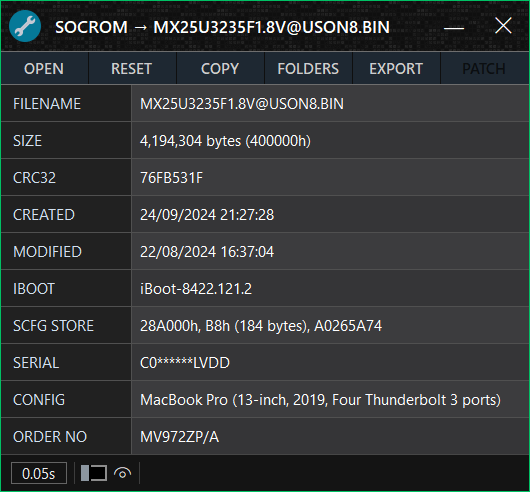
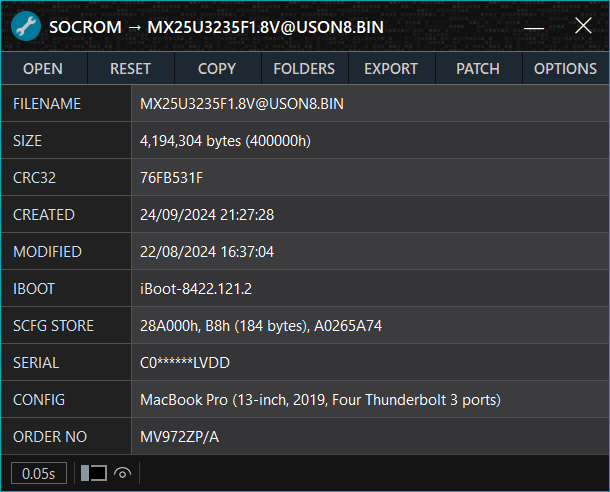
Commit 241106.2045 BETA

diff --git a/src/mefit/Properties/AssemblyInfo.cs b/src/mefit/Properties/AssemblyInfo.cs
@@ -33,6 +33,6 @@ using System.Runtime.InteropServices;
 // You can specify all the values or you can default the Build and Revision Numbers
 // by using the '*' as shown below:
 // [assembly: AssemblyVersion("1.0.*")]
-[assembly: AssemblyVersion("1.2.0")]
-[assembly: AssemblyFileVersion("1.2.0")]
+[assembly: AssemblyVersion("2.0.0")]
+[assembly: AssemblyFileVersion("2.0.0")]
 [assembly: NeutralResourcesLanguage("en")]

diff --git a/src/mefit/Program.cs b/src/mefit/Program.cs
@@ -40,7 +40,7 @@ namespace Mac_EFI_Toolkit
     internal readonly struct METVersion
     {
         internal const string LZMA_SDK = "23.01";
-        internal const string APP_BUILD = "241106.2030";
+        internal const string APP_BUILD = "241106.2045";
         internal const string APP_CHANNEL = "BETA";
     }
 

diff --git a/README.md b/README.md
@@ -1,7 +1,7 @@
 <h1 align="center">
 <img width="160" src="stream/images/application/icon256.png" alt="SMCFT Logo">
 <br>
-Mac EFI Toolkit V1.2.0
+Mac EFI Toolkit V2.0.0
 </h1>
 
 <h4 align="center">A tool for analysis of Mac BIOS/UEFI and Intel T2 SOCROM, with limited editing capabilities.</h4>
@@ -61,7 +61,7 @@ Mac EFI Toolkit, or 'mefit', is a valuable tool built to aid technicians in anal
 
 | Version| Release Date| Latest | Channel |
 |--------|-------------|--------|---------|
-|[1.2.0](https://github.com/MuertoGB/MacEfiToolkit/releases/latest)| Not Set, 2024 | Yes | Stable |
+|[2.0.0](https://github.com/MuertoGB/MacEfiToolkit/releases/latest)| Not Set, 2024 | Yes | Stable |
 
 > 📋 View the full changelog [here](CHANGELOG.md)
 

diff --git a/CHANGELOG.md b/CHANGELOG.md
@@ -10,10 +10,10 @@
   <a href="#version-113">V1.1.3</a> •
   <a href="#version-114">V1.1.4</a> •
   <a href="#version-115">V1.1.5</a> •
-  <a href="#version-120">V1.2.0</a>
+  <a href="#version-200">V2.0.0</a>
 </p>
 
-## Version 1.2.0
+## Version 2.0.0
 
 #### New
 - User interface redesigned for improved usability, with an new application icon.
